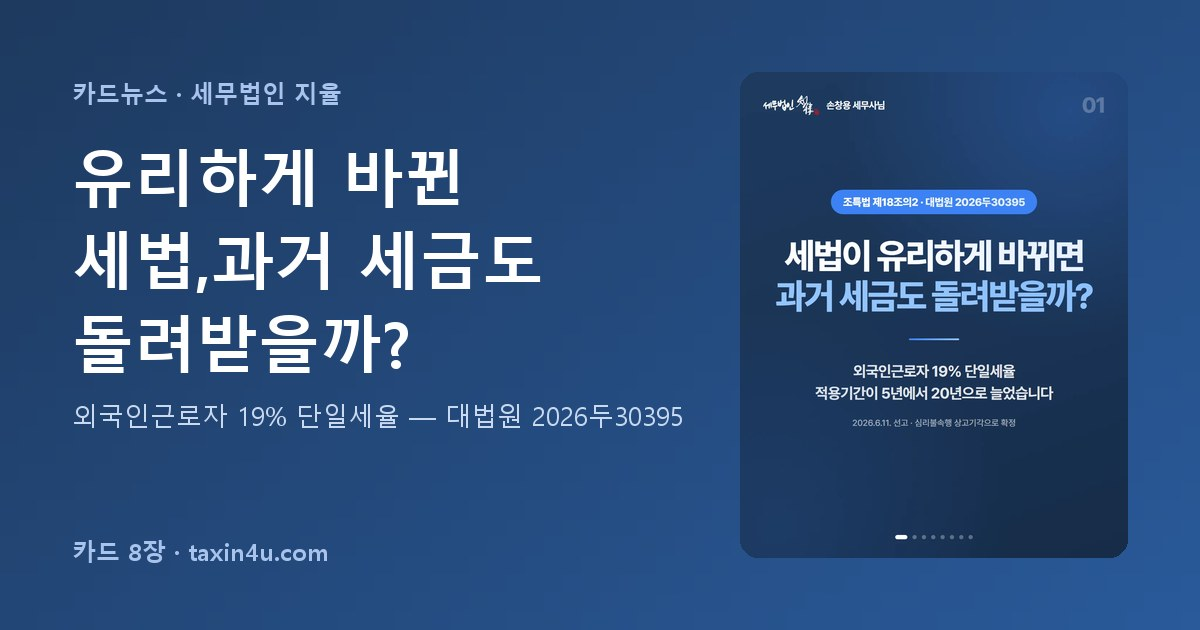
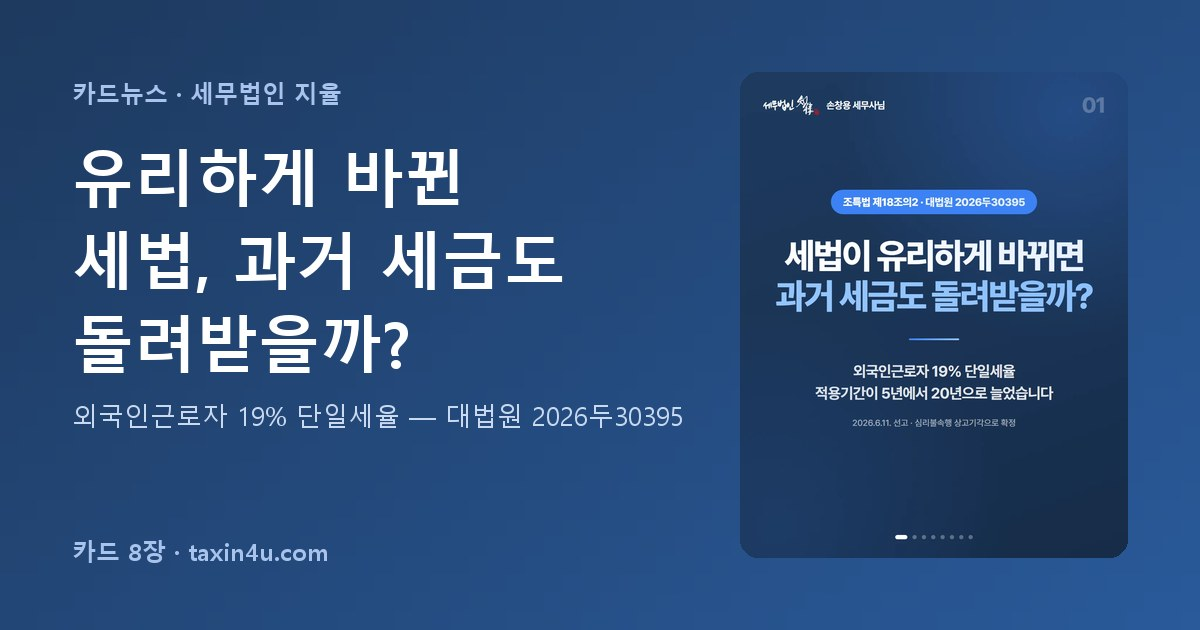
세무칼럼 1편 + 카드뉴스 1세트 추가 (부모 주택 무상거주 증여세)
칼럼: 부모 소유 주택에 자녀가 무상거주하면 증여세가 과세될까?
  - 노션 최신 칼럼을 content/bumo-jutaek-musangeoju-jeungyeose.md 로 반영
  - 대표 세목 노트는 양도·상속·증여세(POST_NOTE)
  - 5년간 무상사용이익 1억원 기준, 평가액 약 13억 1,900만원이 경계선

카드뉴스: musangeoju-jeungyeose-2026 (8장)
  - 커버·결론·계산식·함께거주·5년재개시·월세·실무체크·CTA

make_cardnews_og.py 줄바꿈 버그 수정
  어절을 다음 줄로 넘길 때 rstrip 한 문자열에서 잘라
  '살면 증여세가' 가 '살면증여세가' 로 붙던 문제.
  외국인근로자·퇴직금 세트 미리보기도 함께 고쳐졌다.

Changed region(s): [[0.185, 0.3619, 0.4625, 0.4825]]

diff --git a/server.py b/server.py
@@ -456,6 +456,7 @@ def _hub_posts(hub, posts):
 # (여기 없는 칼럼은 아래 _PRIMARY_HUB_ORDER 자동규칙으로 임시 배정 → 확인 후 한 줄 추가)
 POST_NOTE = {
     "gyeolhon-chulsan-jageum-1eok-woneul-jeungyeose": "transfer-inheritance-gift",
+    "bumo-jutaek-musangeoju-jeungyeose": "transfer-inheritance-gift",      # 부동산 무상사용이익
     "sangsokse-singo-mueotbuteo-junbihaeya-halkkayo": "transfer-inheritance-gift",
     "bumoga-janyeoege-ssage-palmyeon-chwideukseneun": "transfer-inheritance-gift",  # 저가양도 증여간주
     "onerous-gift-acquisition-tax-2024du67238": "acquisition-tax",                  # 부담부증여 취득세

diff --git a/make_cardnews_og.py b/make_cardnews_og.py
@@ -54,7 +54,9 @@ def _wrap(draw, text, font, max_w):
         sp = head.rfind(" ")
         if sp > 0 and draw.textlength(head[:sp], font=font) >= max_w * 0.6:
             lines.append(head[:sp])
-            cur = head[sp + 1:] + tok
+            # 다음 줄로 넘길 때는 rstrip 하지 않은 cur 에서 잘라야 어절 뒤 공백이 살아남는다
+            # (head 로 자르면 '살면 ' + '증여세가' 가 '살면증여세가' 로 붙어 버린다)
+            cur = cur[sp + 1:] + tok
             continue
         # 다음 줄이 문장부호로 시작하면 직전 글자를 함께 넘긴다
         if tok and tok[0] in NO_LINE_START and len(head) > 1:

diff --git a/content/bumo-jutaek-musangeoju-jeungyeose.md b/content/bumo-jutaek-musangeoju-jeungyeose.md
@@ -1,0 +1,208 @@
+---
+slug: bumo-jutaek-musangeoju-jeungyeose
+notion_id: 411868d0-d82c-817c-9f05-f8e5fc56f564
+title: 부모 소유 주택에 자녀가 무상거주하면 증여세가 과세될까? — 부동산 무상사용이익 과세기준과 국세청 예규·조세심판례 총정리
+summary: 부모님 명의 주택에 자녀가 월세 없이 사는 것만으로 증여세가 나오지는 않는다. 5년간 무상사용이익이 1억원 이상일 때만 과세되며, 평가액으로는 약 13억 1,900만원이 경계선이다.
+tags: 증여세, 소득세
+date: 2026-11-08
+source: https://blog.naver.com/taxin4u
+---
+<callout icon="ℹ" color="gray_bg">
+본 글은 세무법인 지율 손창용 세무사가 작성한 **참고용 일반정보**입니다. 실제 의사결정 시에는 반드시 관련 세법·국세청 해석 등 공식 자료를 추가로 확인하시기 바라며, 본 글만을 근거로 한 조치에 대해 작성자 및 세무법인은 책임지지 않습니다.
+</callout>
+
+# 📌 결론부터 말씀드리면
+
+<table header-row="true">
+<tr><td>구분</td><td>결론</td></tr>
+<tr><td>무상거주 = 무조건 과세?</td><td>**아닙니다.** 5년간 무상사용이익이 **1억원 이상**일 때만 증여세 과세</td></tr>
+<tr><td>부모와 실제 함께 거주</td><td>**과세 제외** (상증법 제37조 제1항 괄호)</td></tr>
+<tr><td>과세 경계 주택가액</td><td>평가액 **약 13억 1,900만원 이상**이면 1억원 기준 초과 (계산상 추론)</td></tr>
+<tr><td>5년 초과 거주</td><td>5년마다 **새로 개시한 것으로 보아 재계산** (집값 오르면 과세될 수 있음)</td></tr>
+<tr><td>월세 일부 지급</td><td>제37조가 아닌 **제42조(저가 임대용역)** 검토, 시가와 차액이 시가의 30% 이상이면 과세</td></tr>
+<tr><td>부모의 소득세</td><td>직계존비속이 **실제 거주**하면 부당행위계산부인 **제외** (소득령 제98조 제2항 제2호 단서)</td></tr>
+</table>
+
+<callout icon="💡" color="yellow_bg">
+핵심은 주택가격 자체가 아니라 **5년간 무상사용이익이 1억원 이상인지** 여부입니다.
+</callout>
+
+# 💬 이런 질문이 많습니다
+
+부모님 명의 아파트에 성인 자녀가 월세 없이 사는 경우가 흔합니다. "집값이 높으면 증여세가 나오나요?", "5년이 지나면 어떻게 되나요?", "월세를 조금 내면 괜찮나요?" 같은 질문이 대표적입니다. 이 글은 이 질문들을 법령·국세청 예규·조세심판례를 기준으로 정리한 것입니다.
+
+# 📖 관련 세법은 이렇게 규정합니다
+
+**부동산 무상사용이익 증여**란, 다른 사람의 부동산을 공짜로 쓰면서 얻은 이익(원래 냈어야 할 사용료 상당액)을 증여받은 것으로 보아 증여세를 매기는 제도입니다.
+
+<table header-row="true">
+<tr><td>근거 조문</td><td>주요 내용</td></tr>
+<tr><td>상증법 제37조 제1항</td><td>타인 부동산 무상사용이익을 증여재산가액으로 봄. **소유자와 함께 거주하는 주택과 부수토지는 제외**. 증여일은 무상사용 개시일</td></tr>
+<tr><td>상증령 제27조 제2항</td><td>여러 명이 사용하고 사용면적이 불분명하면 동일 면적 사용으로 봄. 친족인 사용자 2명 이상이면 **대표사용자**를 무상사용자로 봄</td></tr>
+<tr><td>상증령 제27조 제3항</td><td>무상사용기간 **5년**. 5년 초과 시 5년이 되는 날의 다음 날 새로 개시한 것으로 봄</td></tr>
+<tr><td>상증령 제27조 제4항</td><td>기준금액 **1억원** (미만이면 과세 제외)</td></tr>
+<tr><td>상증칙 제10조 제1항</td><td>대표사용자 = 소유자와 **최근친**, 최근친이 2명 이상이면 **최연장자**</td></tr>
+<tr><td>상증칙 제10조 제2항·제3항</td><td>연 사용이익률 **2%**, 각 연도 이익을 **연 10%**로 현재가치 할인</td></tr>
+<tr><td>상증법 제79조 제2항 제1호</td><td>무상사용기간 중 상속·증여·소유자 양도·사망 등으로 무상사용이 끝나면 **3개월 이내 경정청구** 가능</td></tr>
+</table>
+
+# 🔍 쟁점별로 살펴보겠습니다
+
+## 1. 무상사용이익은 어떻게 계산하나요?
+
+<table header-row="true">
+<tr><td>계산식</td></tr>
+<tr><td>**5년간 증여이익 = 부동산 평가액 × 2% × 3.79078677**</td></tr>
+</table>
+
+3.79078677은 연 10% 할인율로 5년치를 현재가치로 합산한 계수입니다. 결국 **평가액의 약 7.58%**가 5년간 증여이익이 됩니다.
+
+## 2. 부모와 함께 살면 어떻게 되나요?
+
+<table header-row="true">
+<tr><td>거주 형태</td><td>증여세 판단</td></tr>
+<tr><td>부모와 자녀가 실제 함께 거주</td><td>**과세 제외**</td></tr>
+<tr><td>부모는 다른 집, 자녀만 무상거주</td><td>과세대상 검토</td></tr>
+<tr><td>부모 소유 주택에 자녀 부부만 거주</td><td>과세대상 검토</td></tr>
+<tr><td>주민등록만 같고 실제로는 따로 삶</td><td>실제 거주 여부로 판단</td></tr>
+<tr><td>성인 자녀 2명 이상 거주</td><td>대표사용자 규정 검토</td></tr>
+</table>
+
+주민등록상 같은 주소라는 사실만으로 함께 거주한다고 단정할 수는 없습니다. 실제 생활 근거가 어디인지가 중요합니다. (실무 판단임)
+
+## 3. 성인 자녀 2명이 함께 무상거주하면?
+
+<table header-row="true">
+<tr><td>구분</td><td>처리</td></tr>
+<tr><td>사용자 1명</td><td>그 사람의 무상사용이익 계산</td></tr>
+<tr><td>여러 명, 면적 불분명</td><td>각자 동일 면적 사용으로 봄</td></tr>
+<tr><td>소유자의 친족인 사용자 2명 이상</td><td>**대표사용자 1명**을 무상사용자로 봄</td></tr>
+<tr><td>대표사용자 선정</td><td>최근친, 동순위면 **최연장자**</td></tr>
+</table>
+
+<callout icon="💡" color="yellow_bg">
+자녀 2명이 함께 산다고 무상사용이익을 무조건 2분의 1씩 나누어 계산해서는 안 됩니다. 대표사용자 1명에게 전액이 귀속되는 구조입니다.
+</callout>
+
+## 4. 5년이 지나도 계속 살면?
+
+5년이 되는 날의 다음 날 새로 무상사용을 개시한 것으로 보아, **그 시점의 평가액으로 다시 계산**합니다(서면-2019-상속증여-4715, 2020.5.26.). 처음 5년에 과세되지 않았더라도 집값이 오르면 다음 5년에는 과세될 수 있습니다.
+
+또한 이렇게 반복된 증여분은 **10년 이내 동일인 증여재산 합산** 대상입니다. 국세청은 무상사용 10년 경과 시 10년 전 개시분도 합산된다고 보았고(기준-2024-법규재산-0195, 2025.2.19.), 조세심판원도 민법상 초일불산입을 주장한 청구를 기각했습니다(조심2024인2680, 2025.4.10.).
+
+## 5. 실제 사용기간이 5년 미만이면 세금이 없나요?
+
+**아닙니다.** 증여시기는 무상사용 개시일이고, 그날 장래 5년분을 미리 계산해 과세하는 것이 원칙입니다. 다만 5년 안에 부모 사망·상속·증여·양도 등으로 무상사용이 끝나면 **사유 발생일부터 3개월 이내 경정청구**로 남은 기간분 세액을 줄일 수 있습니다(상증법 제79조 제2항 제1호, 상증령 제81조 제5항·제6항·제9항).
+
+## 6. 부모 땅에 자녀가 건물을 지어 쓰면?
+
+토지만 무상으로 사용해도 제37조가 적용됩니다(상증령 제27조 제1항). 국세청도 소유자와 함께 거주하는 주택·부수토지를 제외한 타인 부동산을 무상사용하면 제37조를 적용한다고 회신했습니다(서면-2020-상속증여-3204, 2020.11.27.).
+
+## 7. 월세를 일부 내면?
+
+<table header-row="true">
+<tr><td>구분</td><td>월세 없음</td><td>월세 일부 지급</td></tr>
+<tr><td>거래 형태</td><td>무상사용</td><td>저가 임대용역</td></tr>
+<tr><td>적용 규정</td><td>상증법 제37조</td><td>상증법 제42조 제1항</td></tr>
+<tr><td>증여이익</td><td>평가액 × 2% 기준 5년분 현재가치</td><td>임대용역 시가 − 실제 대가</td></tr>
+<tr><td>과세 제외 기준</td><td>5년간 이익 **1억원 미만**</td><td>차액이 **시가의 30% 미만**</td></tr>
+<tr><td>시가 불분명 시</td><td>−</td><td>부동산가액 × 2% (상증령 제32조 제3항 제1호)</td></tr>
+<tr><td>기간</td><td>5년 단위</td><td>1년 단위로 매년 새로 판단 (상증법 제42조 제2항)</td></tr>
+</table>
+
+국세청은 시가보다 낮은 대가로 부동산 임대용역을 제공받은 경우 제42조 제1항에 따라 증여세가 과세된다고 회신했습니다(서면-2020-상속증여-4747, 2021.6.28.). 다만 이는 정상적인 임대차계약과 실제 지급을 전제로 한 것이므로, 형식적으로만 월세를 정한 경우까지 제37조 적용이 배제된다고 단정할 수는 없습니다. (실무 판단임)
+
+## 8. 부모에게 임대소득세가 나오나요?
+
+<table header-row="true">
+<tr><td>구분</td><td>자녀</td><td>부모</td></tr>
+<tr><td>검토 세목</td><td>증여세</td><td>소득세</td></tr>
+<tr><td>관련 규정</td><td>상증법 제37조</td><td>소득령 제98조</td></tr>
+<tr><td>쟁점</td><td>무상사용이익</td><td>부당행위계산부인</td></tr>
+<tr><td>판단 기준</td><td>5년간 증여이익 1억원</td><td>직계존비속의 **실제 거주** 시 부인 제외</td></tr>
+</table>
+
+**부당행위계산부인**이란 특수관계인과의 거래로 세금을 부당하게 줄인 경우 정상가격으로 다시 계산하는 제도입니다. 자녀의 증여세와 부모의 소득세는 **별개의 문제**로 각각 검토해야 합니다.
+
+# 🧮 사례로 계산해 보면
+
+## 부동산 평가액별 5년간 증여이익
+
+<table header-row="true">
+<tr><td>평가액</td><td>5년간 증여이익</td><td>과세 여부</td></tr>
+<tr><td>6억원</td><td>약 4,549만원</td><td>과세 제외</td></tr>
+<tr><td>9억원</td><td>약 6,823만원</td><td>과세 제외</td></tr>
+<tr><td>11억원</td><td>약 8,340만원</td><td>과세 제외</td></tr>
+<tr><td>13.19억원</td><td>약 1억원</td><td>**경계선**</td></tr>
+<tr><td>14억원</td><td>약 1억 614만원</td><td>과세대상</td></tr>
+<tr><td>17억원</td><td>약 1억 2,889만원</td><td>과세대상</td></tr>
+<tr><td>22억원</td><td>약 1억 6,679만원</td><td>과세대상</td></tr>
+<tr><td>28억원</td><td>약 2억 1,228만원</td><td>과세대상</td></tr>
+</table>
+
+※ 만원 단위 반올림. 한 사람이 전체를 무상사용하고 다른 과세요건을 충족한다고 가정한 예시 금액입니다. 1억원 이상이면 **계산된 이익 전액**이 증여재산가액이 되며, 실제 세액은 증여재산공제·10년 합산 여부에 따라 달라집니다.
+
+## 사례 1 · 아버지 소유 11억원 아파트에 아들(35세) 무상거주
+
+<table header-row="true">
+<tr><td>구분</td><td>내용</td></tr>
+<tr><td>연간 사용이익</td><td>2,200만원</td></tr>
+<tr><td>5년간 증여이익</td><td>약 8,340만원</td></tr>
+<tr><td>결과</td><td>**1억원 미만, 과세 제외**</td></tr>
+</table>
+
+## 사례 2 · 어머니 소유 17억원 아파트에 딸(32세) 무상거주
+
+<table header-row="true">
+<tr><td>구분</td><td>내용</td></tr>
+<tr><td>연간 사용이익</td><td>3,400만원</td></tr>
+<tr><td>5년간 증여이익</td><td>약 1억 2,889만원</td></tr>
+<tr><td>결과</td><td>**1억원 이상, 전액 과세대상**</td></tr>
+</table>
+
+## 사례 3 · 집값 상승으로 다음 5년에 과세되는 경우
+
+<table header-row="true">
+<tr><td>구분</td><td>최초 5년</td><td>다음 5년</td></tr>
+<tr><td>개시일</td><td>2026.7.1.</td><td>2031.7.1.</td></tr>
+<tr><td>평가액</td><td>9억원</td><td>14억원</td></tr>
+<tr><td>연간 사용이익</td><td>1,800만원</td><td>2,800만원</td></tr>
+<tr><td>5년간 증여이익</td><td>약 6,823만원</td><td>약 1억 614만원</td></tr>
+<tr><td>과세 여부</td><td>과세 제외</td><td>**과세대상**</td></tr>
+</table>
+
+# ✅ 정리 및 실무 체크리스트
+
+- [ ] 🏠 소유자: 부모 단독소유인지, 공동소유인지
+- [ ] 👨👩👧 실제 거주관계: 부모와 실제로 함께 사는지 (주민등록만으로 판단 불가)
+- [ ] 📅 무상사용 개시일: 최초 거주 시작일
+- [ ] 💰 평가액: 개시일 현재 상증법상 평가액 (약 13.19억원이 경계)
+- [ ] 🧮 증여이익: 5년간 1억원 이상인지
+- [ ] ⏰ 5년 경과: 새로운 증여시기 도래 및 10년 합산 여부
+- [ ] 👥 공동사용자: 대표사용자 규정 적용 여부
+- [ ] 📄 월세 지급: 제37조인지 제42조(저가 임대용역)인지 구분
+- [ ] 📝 중도 종료: 상속·양도·사망 시 3개월 이내 경정청구
+- [ ] 🧾 부모 소득세: 직계존비속 실제 거주 예외규정 적용 여부
+
+<callout icon="💡" color="yellow_bg">
+부모 소유 주택의 무상거주는 단순한 가족 간 주거지원이 아니라 **증여세와 소득세를 함께 검토해야 하는 세무 쟁점**입니다.
+</callout>
+
+# 📚 관련 예규·심판례
+
+<table header-row="true">
+<tr><td>문서번호</td><td>요지</td></tr>
+<tr><td>서면-2019-상속증여-4715, 2020.5.26.</td><td>5년 초과 시 5년이 되는 날의 다음 날 새로 개시한 것으로 보며, 이익이 1억원 미만이면 과세 안 됨</td></tr>
+<tr><td>서면-2020-상속증여-3204, 2020.11.27.</td><td>소유자와 함께 거주하는 주택 등을 제외한 타인 부동산 무상사용 시 제37조 적용</td></tr>
+<tr><td>서면-2020-상속증여-4747, 2021.6.28.</td><td>시가보다 낮은 대가로 부동산 임대용역을 제공받으면 제42조 제1항에 따라 과세, 시가는 상증령 제32조 제3항</td></tr>
+<tr><td>재산세과-3954, 2008.11.25.</td><td>제37조 적용 대상 무상사용이익에는 제42조를 적용하지 않음 (서면-2020-상속증여-3204에서 인용)</td></tr>
+<tr><td>기준-2024-법규재산-0195, 2025.2.19.</td><td>무상사용 10년 초과 시 2024.1.6. 증여분에 2014.1.6. 증여분도 10년 합산 대상</td></tr>
+<tr><td>조심2024인2680, 2025.4.10.</td><td>5년 재개시 및 10년 합산 기간 계산에 초일불산입 주장 배척, 기각</td></tr>
+<tr><td>조심2011서3195, 2011.11.30.</td><td>모친 토지 위 자녀 건물 신축 사안. 결정 전 상속이 개시되었어도 5년 이익 1억원 이상이면 과세대상, 개시일부터 상속개시일까지분만 과세한 처분 정당 (기각)</td></tr>
+</table>
+
+# ✍ 맺음말
+
+<callout icon="✍" color="blue_bg">
+부모님 집에 무상으로 사는 것 자체가 문제가 되는 것은 아닙니다. 다만 주택가액이 13억원 안팎을 넘거나, 5년 이상 계속 거주하거나, 월세를 일부만 내는 경우에는 미리 계산해 보시는 것이 좋습니다.
+</callout>
